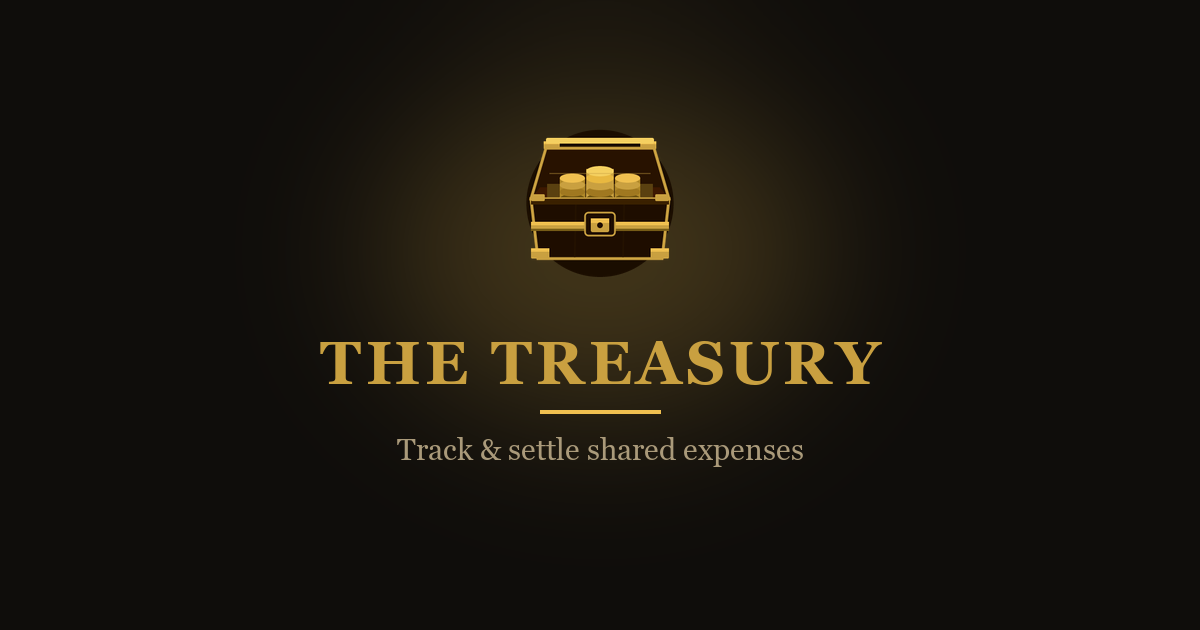
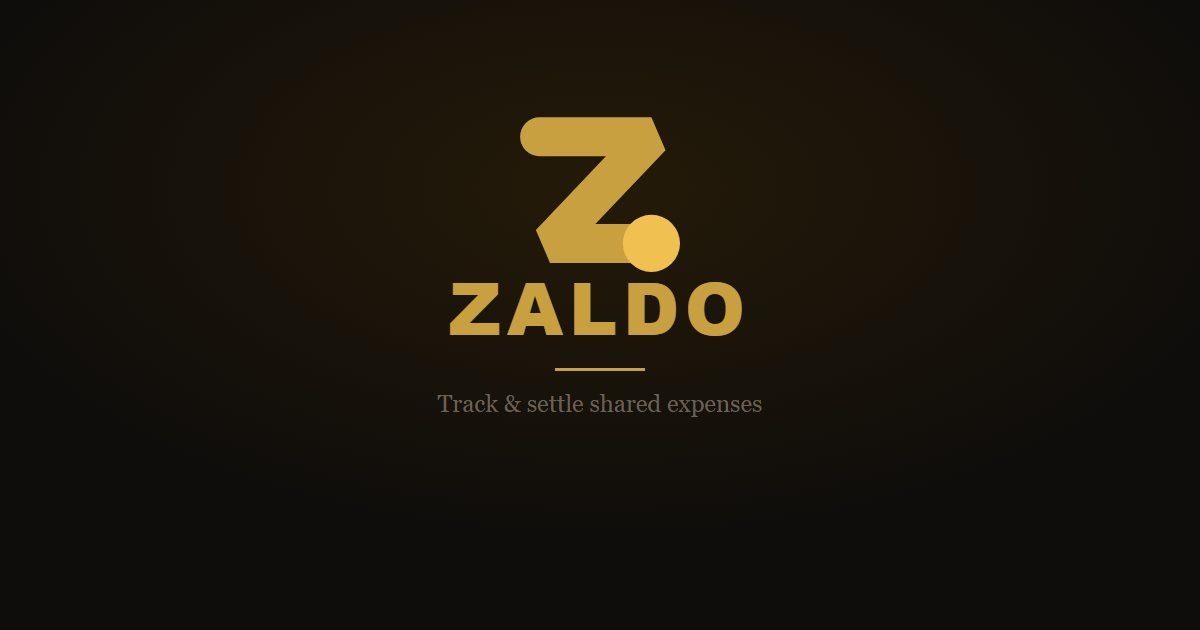
refactor: update references from "The Treasury" to "Zaldo" in metadata and README

Changed region(s): [[0.2467, 0.181, 0.74, 0.6635], [0.3083, 0.6937, 0.6783, 0.754]]

diff --git a/main.ts b/main.ts
@@ -121,19 +121,19 @@ Deno.serve(async (req) => {
   // route matches on pathname only, so the query is ignored when serving.
   const ogImageBase = Deno.env.get("OG_IMAGE_URL") ?? `${url.origin}/og-banner.png`;
   const ogImage = `${ogImageBase}${ogImageBase.includes("?") ? "&" : "?"}g=${encodeURIComponent(groupId)}`;
-  const ogTitle = `Join ${groupName} on The Treasury`;
+  const ogTitle = `Join ${groupName} on Zaldo`;
   const ogDesc =
     `You've been invited to split and settle shared expenses in “${groupName}”.`;
   const ogMeta = `
   <meta property="og:type" content="website">
-  <meta property="og:site_name" content="The Treasury">
+  <meta property="og:site_name" content="Zaldo">
   <meta property="og:title" content="${esc(ogTitle)}">
   <meta property="og:description" content="${esc(ogDesc)}">
   <meta property="og:url" content="${esc(url.href)}">
   <meta property="og:image" content="${esc(ogImage)}">
   <meta property="og:image:width" content="1200">
   <meta property="og:image:height" content="630">
-  <meta property="og:image:alt" content="The Treasury">
+  <meta property="og:image:alt" content="Zaldo">
   <meta name="twitter:card" content="summary_large_image">
   <meta name="twitter:image" content="${esc(ogImage)}">
   <meta name="twitter:title" content="${esc(ogTitle)}">
@@ -159,7 +159,7 @@ Deno.serve(async (req) => {
 <head>
   <meta charset="utf-8">
   <meta name="viewport" content="width=device-width, initial-scale=1">
-  <title>The Treasury — You've been invited</title>${ogMeta}
+  <title>Zaldo — You've been invited</title>${ogMeta}
   <style>
     body {
       background: #0F0D0B;
@@ -253,9 +253,9 @@ Deno.serve(async (req) => {
   </script>
 </head>
 <body>
-  <h1>The Treasury</h1>
+  <h1>Zaldo</h1>
   <p>You've been invited to join <strong style="color:#F5F0E8" id="group-name"></strong></p>
-  <a id="open-btn" class="btn" href="#">Open in The Treasury</a>
+  <a id="open-btn" class="btn" href="#">Open in Zaldo</a>
   ${isAndroid && apkUrl ? `<a class="applink" onclick="onGetApp()">Get the Android app</a>` : ""}
 </body>
 </html>`;

diff --git a/Readme.md b/Readme.md
@@ -1,7 +1,7 @@
 # treasury-invite
 
-Deno Deploy service behind `treasury-invite.meditec.deno.net` that backs The
-Treasury's invite / deep links.
+Deno Deploy service behind `treasury-invite.meditec.deno.net` that backs
+Zaldo's invite / deep links.
 
 Given an invite URL like:
 
